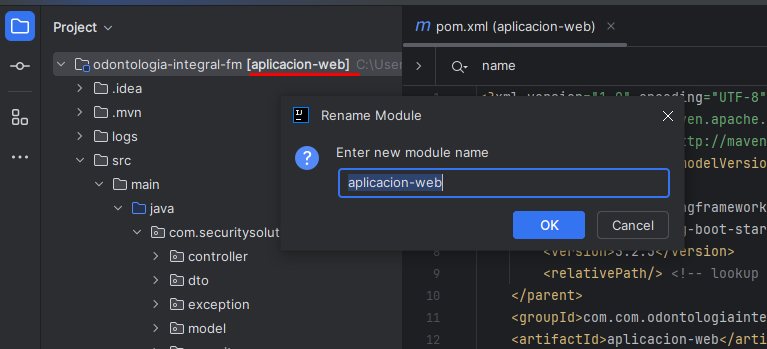
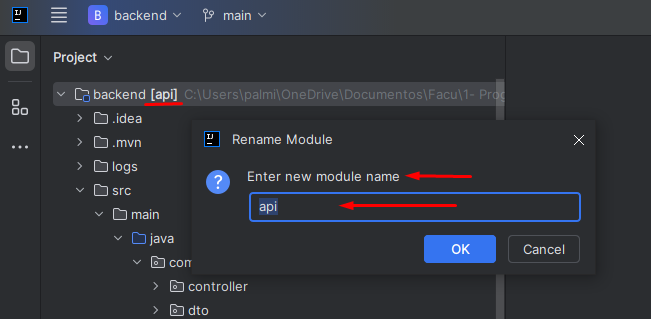
Update

diff --git a/docs/Backend/2- Spring Boot/20-extras.md b/docs/Backend/2- Spring Boot/20-extras.md
@@ -14,7 +14,7 @@ Este es generalmente el nombre del dominio de la empresa o de la organización i
 Si la empresa tiene dominio web odontologiaintegralfm.com, corresponde que vaya com.odontologiaintegralfm
 
 ```jsx title="Ejemplo"
-<groupId>com.com.odontologiaintegralfm</groupId>
+<groupId>com.odontologiaintegralfm</groupId>
 
 ```
 
@@ -24,7 +24,7 @@ Este es el nombre del proyecto y generalmente está en minúsculas y separado po
 Si el proyecto es solo un componente (como una aplicación web que se comunica con un backend, por ejemplo), aplicacion-web es un buen nombre. Es claro y directo.
 
 ```jsx title="Ejemplo"
-<artifactId>aplicacion-web</artifactId>
+<artifactId>api</artifactId>
 ```
 
 ### name (Nombre del proyecto - POM.xml)
@@ -32,8 +32,8 @@ Este es el nombre completo del proyecto, utilizado en interfaces de usuario o do
 El nombre debe ser más descriptivo y completo que el artifactId. Puede incluir espacios o mayúsculas.
 
 ```jsx title="Ejemplo"
-<name>Aplicación de Gestión Web</name>
-<description>Aplicación web de gestión interna</description>
+<name>odontologia-integral-fm-api</name>
+<description>API REST para la aplicación web de Odontología Integral FM</description>
 ```
 
 
@@ -49,9 +49,15 @@ Si tu proyecto tiene varios módulos (por ejemplo, un proyecto multi-módulo), e
 Este valor es utilizado por Spring Boot para identificar la aplicación y puede ser útil en varias situaciones, como cuando tienes un sistema de microservicios o cuando se integran varios componentes, ya que se utiliza para dar un nombre a la aplicación en logs, métricas, y otras configuraciones.
 
 ```jsx title="Ejemplo"
-spring.application.name=Aplicación de Gestión Web
+spring.application.name= odontologiaintegralfm-api
 ```
 
+
+### Renombra Package de proyecto (Estructura carpetas)
+
+Debe contener el mismo nombre que el groupId
+
+![package-rename](/img/package-rename.png)
 
 ### Refactor de Main
 
@@ -59,7 +65,7 @@ Nombre de la empresa, seguido de "application"
 
 ```jsx title="Ejemplo"
 @SpringBootApplication
-public class OdontologiaIntegralFMApplication {
+public class OdontologiaIntegralFmApiApplication {
 
 	public static void main(String[] args) {
 		SpringApplication.run(OdontologiaIntegralFMApplication.class, args);
